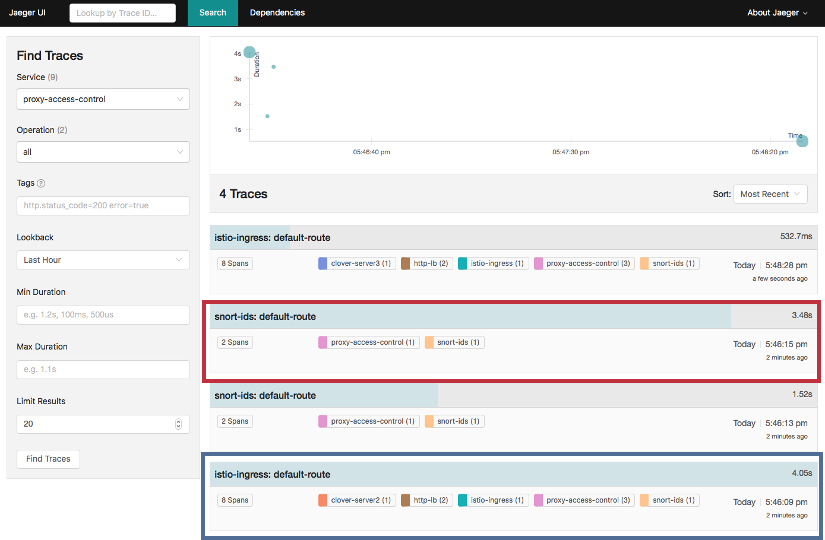
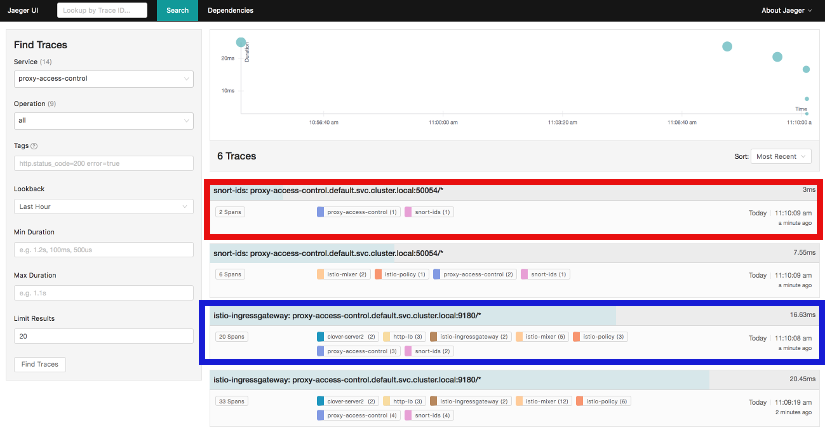
Refresh SDC guide for Istio 1.0
- Add description of new VirtualService and Gateway resources
in Istio 1.0
- Modify manual inject commands to match Istio 1.0
- Update tracing UI graphic with Jaeger that is integrated with Istio 1.0
- Update Istio pod listing
- Update how to expose Prometheus and Jaeger
- Fix the commands to remove Istio 1.0
- Modify SDC yaml for local Docker registry case

diff --git a/docs/release/configguide/sdc_config_guide.rst b/docs/release/configguide/sdc_config_guide.rst
@@ -119,7 +119,7 @@ The following assumptions must be met before continuing on to deployment:
  * Ubuntu 16.04 was used heavily for development and is advised for greenfield deployments.
  * Installation of Docker has already been performed. It's preferable to install Docker CE.
  * Installation of Kubernetes has already been performed. The installation in this guide was
-   executed in a single-node Kubernetes cluster on a modest virtual machine.
+   executed in a single-node Kubernetes cluster.
  * Installation of a pod network that supports the Container Network Interface (CNI). It is
    recommended to use flannel, as most development work employed this network add-on. Success
    using Weave Net as the CNI plugin has also been reported.
@@ -175,21 +175,21 @@ within the samples directory as shown below:
 
     $ git clone https://gerrit.opnfv.org/gerrit/clover
     $ cd clover/samples/scenarios
-    $ git checkout stable/fraser
+    $ git checkout stable/gambia
 
 To deploy the sample in the default Kubernetes namespace, use the following command for Istio
 manual sidecar injection:
 
 .. code-block:: bash
 
-    $ kubectl apply -f <(istioctl kube-inject --debug -f service_delivery_controller_opnfv.yaml)
+    $ istioctl kube-inject -f service_delivery_controller_opnfv.yaml | kubectl apply -f -
 
 To deploy in another namespace, use the '-n' option. An example namespace of 'sdc' is shown below:
 
 .. code-block:: bash
 
     $ kubectl create namespace sdc
-    $ kubectl apply -n sdc -f <(istioctl kube-inject --debug -f service_delivery_controller_opnfv.yaml)
+    $ istioctl kube-inject -f service_delivery_controller_opnfv.yaml | kubectl apply -n sdc -f -
 
 When using the above SDC manifest, all required docker images will automatically be pulled
 from the OPNFV public Dockerhub registry. An example of using a Docker local registry is also
@@ -226,11 +226,20 @@ The result of the Istio deployment must include the following pods:
 
 .. code-block:: bash
 
-    $ NAMESPACE    NAME                               READY     STATUS
-    istio-system   istio-ca-59f6dcb7d9-9frgt          1/1       Running
-    istio-system   istio-ingress-779649ff5b-mcpgr     1/1       Running
-    istio-system   istio-mixer-7f4fd7dff-mjpr8        3/3       Running
-    istio-system   istio-pilot-5f5f76ddc8-cglxs       2/2       Running
+    $ NAMESPACE    NAME                                             READY     STATUS
+    istio-system   grafana-6995b4fbd7-pjgbh                         1/1       Running
+    istio-system   istio-citadel-54f4678f86-t2dng                   1/1       Running
+    istio-system   istio-egressgateway-5d7f8fcc7b-hs7t4             1/1       Running
+    istio-system   istio-galley-7bd8b5f88f-wtrdv                    1/1       Running
+    istio-system   istio-ingressgateway-6f58fdc8d7-vqwzj            1/1       Running
+    istio-system   istio-pilot-d99689994-b48nz                      2/2       Running
+    istio-system   istio-policy-766bf4bd6d-l89vx                    2/2       Running
+    istio-system   istio-sidecar-injector-85ccf84984-xpmxp          1/1       Running
+    istio-system   istio-statsd-prom-bridge-55965ff9c8-q25rk        1/1       Running
+    istio-system   istio-telemetry-55b6b5bbc7-qrg28                 2/2       Running
+    istio-system   istio-tracing-77f9f94b98-zljrt                   1/1       Running
+    istio-system   prometheus-7456f56c96-zjd29                      1/1       Running
+    istio-system   servicegraph-684c85ffb9-9h6p7                    1/1       Running
 
 .. _sdc_ingress_port:
 
@@ -241,19 +250,66 @@ To determine how incoming http traffic on port 80 will be translated, use the fo
 
 .. code-block:: bash
 
-    $ kubectl get svc -n istio-system
-    NAME                TYPE           CLUSTER-IP       EXTERNAL-IP   PORT(S)
-    istio-ingress       LoadBalancer   10.104.208.165   <pending>     80:32410/TCP,443:31045/TCP
+    $ kubectl get svc -n istio-system | grep LoadBalancer
+    NAME                   TYPE           CLUSTER-IP       EXTERNAL-IP   PORT(S)
+    istio-ingressgateway   LoadBalancer   10.111.40.165    <pending>     80:32410/TCP,443:31390/TCP
 
 **Note, the CLUSTER-IP of the service will be unused in this example since load balancing service
 types are unsupported in this configuration. It is normal for the EXTERNAL-IP to show status
 <pending> indefinitely**
 
-In this example, traffic arriving on port 32410 will flow to istio-ingress. The
-istio-ingress service will route traffic to the **proxy-access-control** service based on a
-configured ingress rule, which defines a gateway for external traffic to enter
-the Istio service mesh. This makes the traffic management and policy features of Istio available
-for edge services.
+In this example, traffic arriving on port 32410 will flow to istio-ingressgateway. The
+istio-ingressgateway service will route traffic to the **proxy-access-control** service based on
+configured Istio ``Gateway`` and ``VirtualService`` resources, which are shown below. The
+``Gateway`` defines a gateway for external traffic to enter the Istio service mesh based on
+incoming protocol, port and domain (``hosts:`` section currently using wildcard). The
+``VirtualService`` associates to a particular ``Gateway`` (sdc-gateway here) and allows for route
+rules to be setup. In the example below, any URL with prefix '/' will be routed to the service
+**proxy-access-control** on port 9180. Additionally, ingress traffic can be mirrored by
+adding a directive to the ``VirtualService`` definition. Below, all matching traffic will be
+mirrored to the **snort-ids** (duplicating internal mirroring performed by the
+**proxy-access-control** for illustrative purposes)
+
+This allows the traffic management and policy features of Istio available to external services and
+clients.
+
+.. code-block:: bash
+
+    apiVersion: networking.istio.io/v1alpha3
+    kind: Gateway
+    metadata:
+      name: sdc-gateway
+    spec:
+      selector:
+        istio: ingressgateway # use istio default controller
+      servers:
+      - port:
+          number: 80
+          name: http
+          protocol: HTTP
+        hosts:
+        - "*"
+    ---
+    apiVersion: networking.istio.io/v1alpha3
+    kind: VirtualService
+    metadata:
+      name: sdcsample
+    spec:
+      hosts:
+      - "*"
+      gateways:
+      - sdc-gateway
+      http:
+      - match:
+        - uri:
+            prefix: /
+        route:
+        - destination:
+            host: proxy-access-control
+            port:
+              number: 9180
+        mirror:
+          host: snort-ids
 
 Using the sample
 ================
@@ -268,6 +324,8 @@ flannel CNI IP address, as shown below:
 
     $ wget http://10.244.0.1:32410/
     $ curl http://10.244.0.1:32410/
+
+An IP address of a node within the Kubernetes cluster may also be employed.
 
 An HTTP response will be returned as a result of the wget or curl command, if the SDC sample
 is operating correctly. However, the visibility into what services were accessed within
@@ -284,9 +342,9 @@ using the following commands **(above command already executes the two commands 
 
 .. code-block:: bash
 
-    $ kubectl expose -n istio-system deployment jaeger-deployment --port=16686 --type=NodePort
+    $ kubectl expose -n istio-system deployment istio-tracing --port=16686 --type=NodePort
 
-Likewise, the Promethues monitoring UI is exposed with the following command:
+Likewise, the Prometheus monitoring UI is exposed with the following command:
 
 .. code-block:: bash
 
@@ -297,9 +355,9 @@ following command:
 
 .. code-block:: bash
 
-    $ kubectl get svc --all-namespaces
+    $ kubectl get svc -n istio-system | grep NodePort
     NAMESPACE      NAME              TYPE      CLUSTER-IP   EXTERNAL-IP   PORT(S)
-    istio-system   jaeger-deployment NodePort  10.105.94.85 <none>        16686:32174/TCP
+    istio-system   istio-tracing     NodePort  10.105.94.85 <none>        16686:32174/TCP
     istio-system   prometheus        NodePort  10.97.74.230 <none>        9090:32708/TCP
 
 In the example above, the Jaeger tracing web-based UI will be available on port 32174 and
@@ -309,12 +367,27 @@ URLs for Jaeger and Prometheus respectively::
     http://<node IP>:32174
     http://<node IP>:32708
 
-Where node IP is an IP from one of the Kubernetes cluster node(s).
+Where node IP is an IP of one of the Kubernetes cluster node(s) on a CNI IP address.
+Alternatively, the tracing and monitoring services can be exposed with a LoadBalancer
+service if supported by your Kubernetes cluster (such as GKE), as shown below for tracing::
+
+    kind: Service
+    apiVersion: v1
+    metadata:
+      name: istio-tracing
+    spec:
+      selector:
+        app: jaeger
+      ports:
+      - name: http
+        protocol: TCP
+        port: 80
+        targetPort: 16686
+      type: LoadBalancer
 
 .. image:: imgs/sdc_tracing.png
     :align: center
     :scale: 100%
-
 
 The diagram above shows the Jaeger tracing UI after traces have been fetched for the
 **proxy-access-control** service. After executing an HTTP request using the simple curl/wget
@@ -324,8 +397,9 @@ the drop-down and click the ``Find Traces`` button at the bottom of the left con
 The blue box denotes what should be displayed for the services that were involved in
 handling the request including:
 
- * istio-ingress
+ * istio-ingressgateway
  * proxy-access-control
+ * snort-ids
  * http-lb
  * clover-server1 OR clover-server2 OR clover-server3
 
@@ -610,9 +684,8 @@ was installed from source and use the following command:
 
 .. code-block:: bash
 
-    $ cd istio-0.6.0
-    $ kubectl delete -f install/kubernetes/istio.yaml
-
+    $ cd istio-1.0.0
+    $ kubectl delete -f install/kubernetes/istio-demo.yaml
 
 Uninstall from Docker environment
 =================================
@@ -628,15 +701,13 @@ The OPNFV docker images can be removed with the following commands:
     $ docker rmi opnfv/clover
 
 If deployment was performed with the Clover container, the first four images above will not
-be present. The Redis, Prometheus and Jaeger docker images can be removed with the following
-commands, if deployed from source:
+be present. The Redis docker images can be removed with the following commands, if deployed
+from source:
 
 .. code-block:: bash
 
     $ docker rmi k8s.gcr.io/redis
     $ docker rmi kubernetes/redis
-    $ docker rmi prom/prometheus
-    $ docker rmi jaegertracing/all-in-one
 
 If docker images were built locally, they can be removed with the following commands:
 
